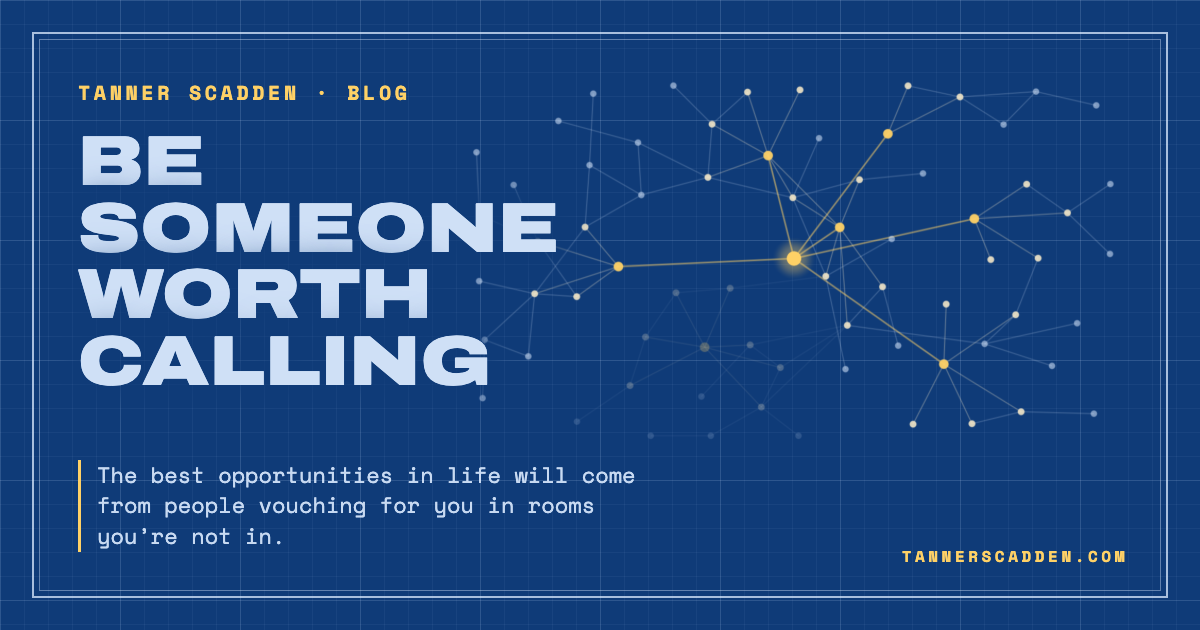
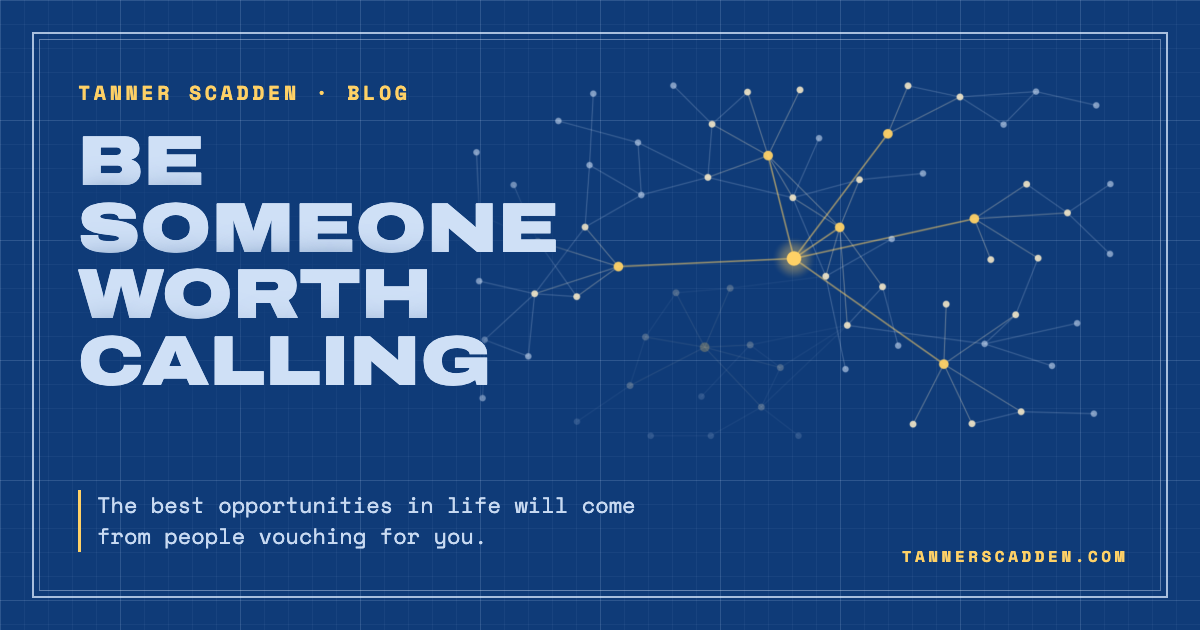
Shorten the post's summary to who vouches for you

Changed region(s): [[0.0617, 0.7238, 0.5242, 0.8143], [0.0617, 0.8444, 0.4008, 0.8746]]

diff --git a/src/content/posts/be-someone-worth-calling.ts b/src/content/posts/be-someone-worth-calling.ts
@@ -9,7 +9,7 @@ export const beSomeoneWorthCalling: Post = {
   title: 'Be Someone Worth Calling',
   date: '2026-11-27',
   summary:
-    'The best opportunities in life will come from people vouching for you in rooms you’re not in.',
+    'The best opportunities in life will come from people vouching for you.',
   image: {
     path: '/og/be-someone-worth-calling.png',
     alt: 'Be Someone Worth Calling: a network of people around you, with one branch torn away after a bad interaction.',
